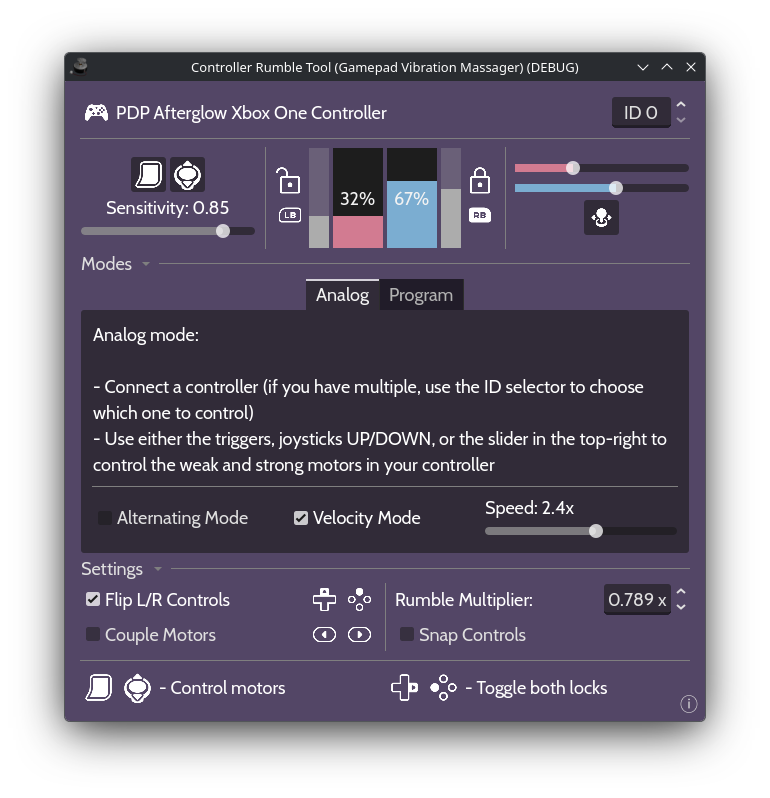
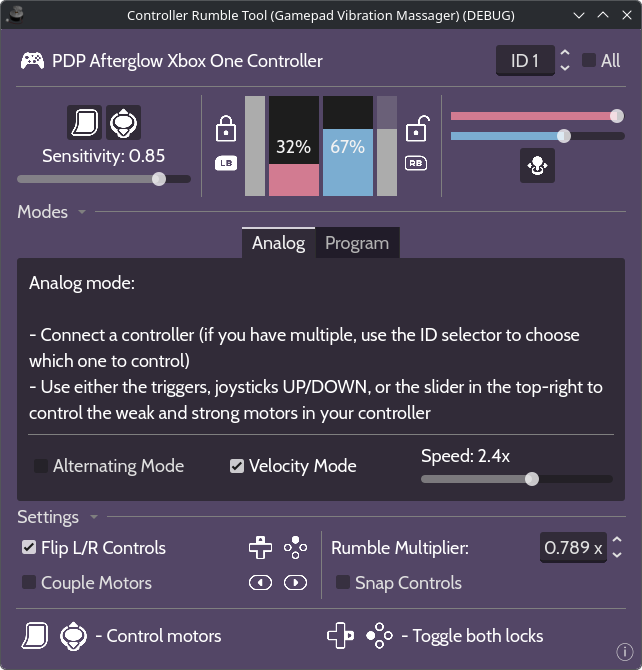
v0.4.1 New ID connection functions, "All" mode
- Added an "All" checkbox, which will call start_joy_vibration() on IDs 0-31
- Changed hardcoded limit from 100 devices to 32 (seems reasonable enough)
- Removed the stupid shadow from the 1 screenshot i have

diff --git a/README.md b/README.md
@@ -10,7 +10,7 @@
 ## Features
  - ⚡ **Interact directly** with the 2 motors, weak and strong, that are present in most modern controllers
  - 🕹 Use either the **triggers, joysticks** or **mouse** for a variety of tactile input options
- - 🎮 **Choose** which device to control using its ID (with multiple connected controllers)
+ - 🎮 **Choose** which device to control using its ID (or even **all** of them!)
  - 🔒 **Lock** any (or both) motors to keep them rumbling continuously
  - ↔ **Ambidextrous** gamepad controls (a mouse is still needed for full program functionality)
  - 🔧 **Snap, flip or join** controls with various settings you can enable on the fly
